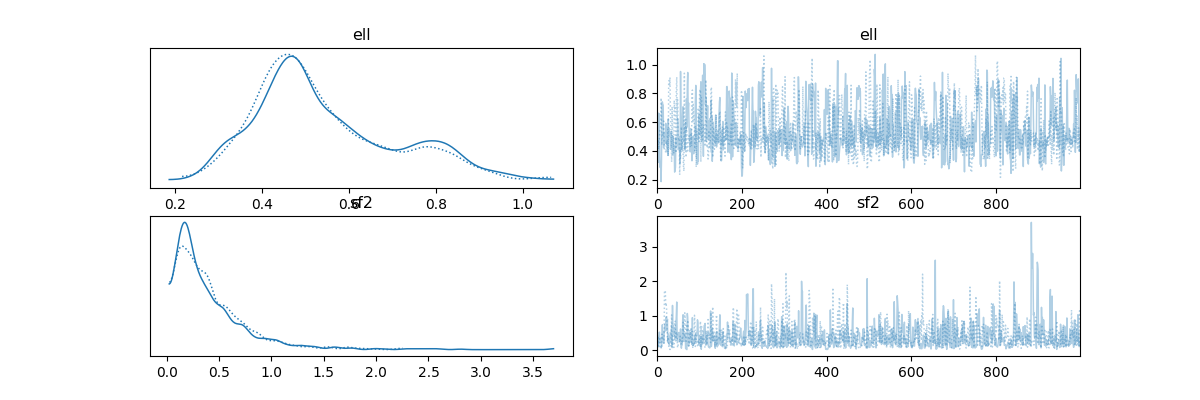
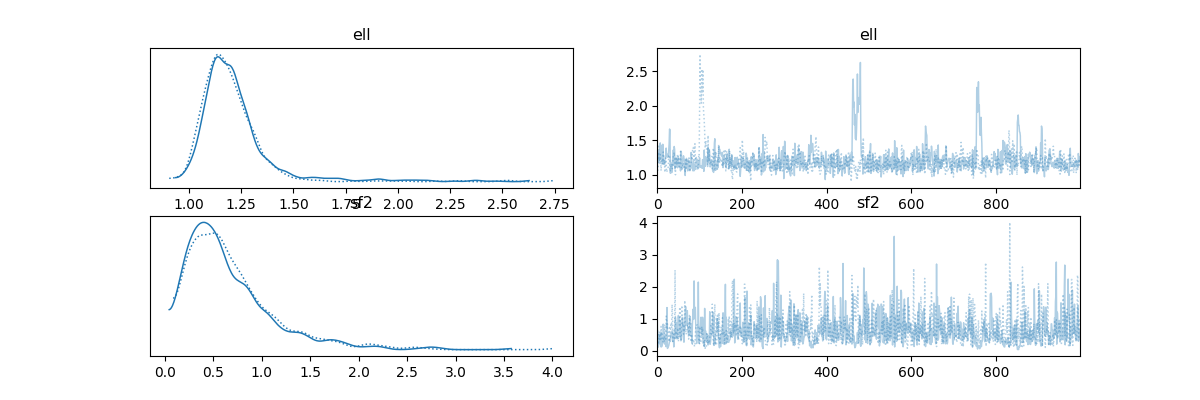
[48]ell和sf2的最终HMC结果

diff --git a/scripts和tests内的文件说明.md b/scripts和tests内的文件说明.md
@@ -7,12 +7,16 @@ float ell = 0.3;  // 默认配置
 float sf2 = 1.0;  // 硬编码默认值
 
 // [结果] 依据均值 mean() 推荐回填 C++ (vbki.h) 的参数:
-float ell = 1.5554;
-float sf2 = 1.4355;
+float ell = 1.2067;
+float sf2 = 0.6711;
 
 // 依据众数（峰值对应的横坐标）推荐回填 C++ (vbki.h) 的参数:
+float ell = 1.1489;;
+float sf2 = 0.4188;;
 
-
+// 注意，在不固定随机种子的情况下，由于选取的数据不同，可能导致双峰分布。
+// Data Loaded: 131072 points
+// Train: 2000, Query: 200, Classes: 7
 ```
 
 
